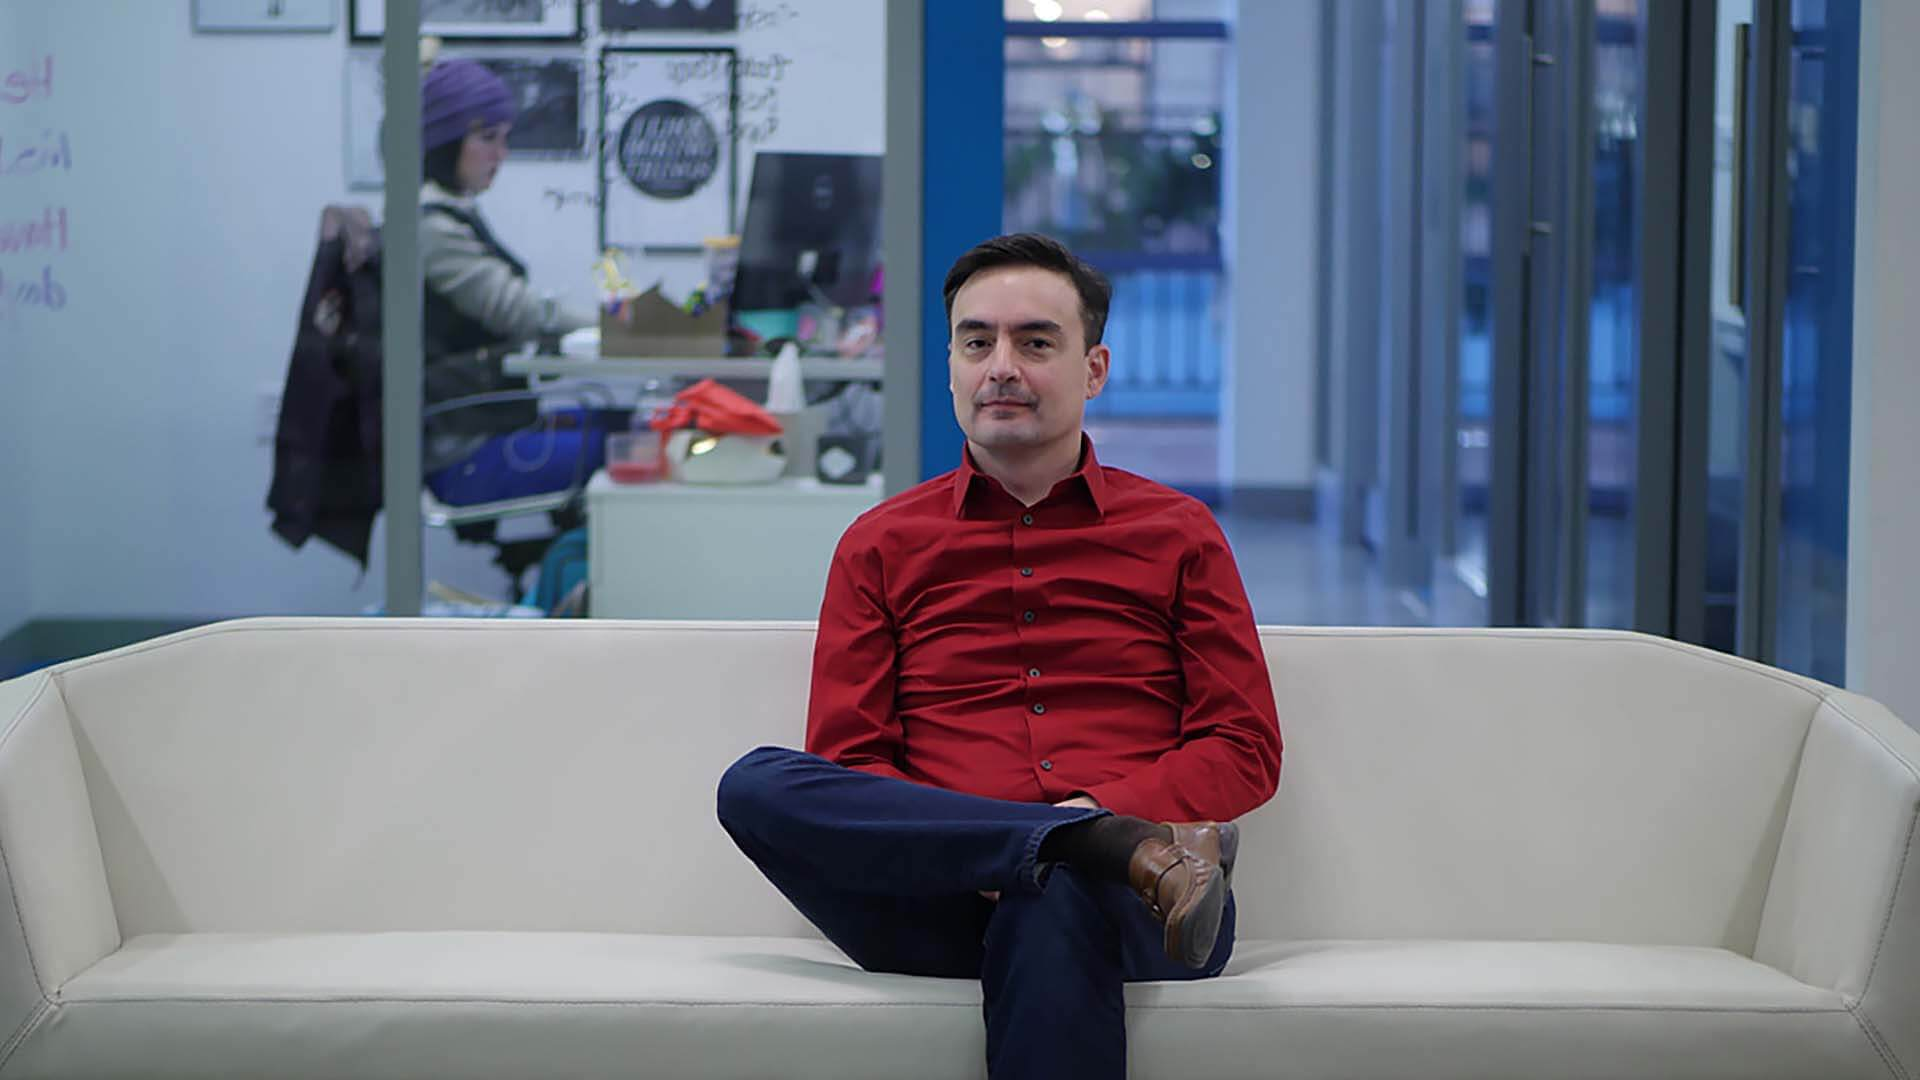
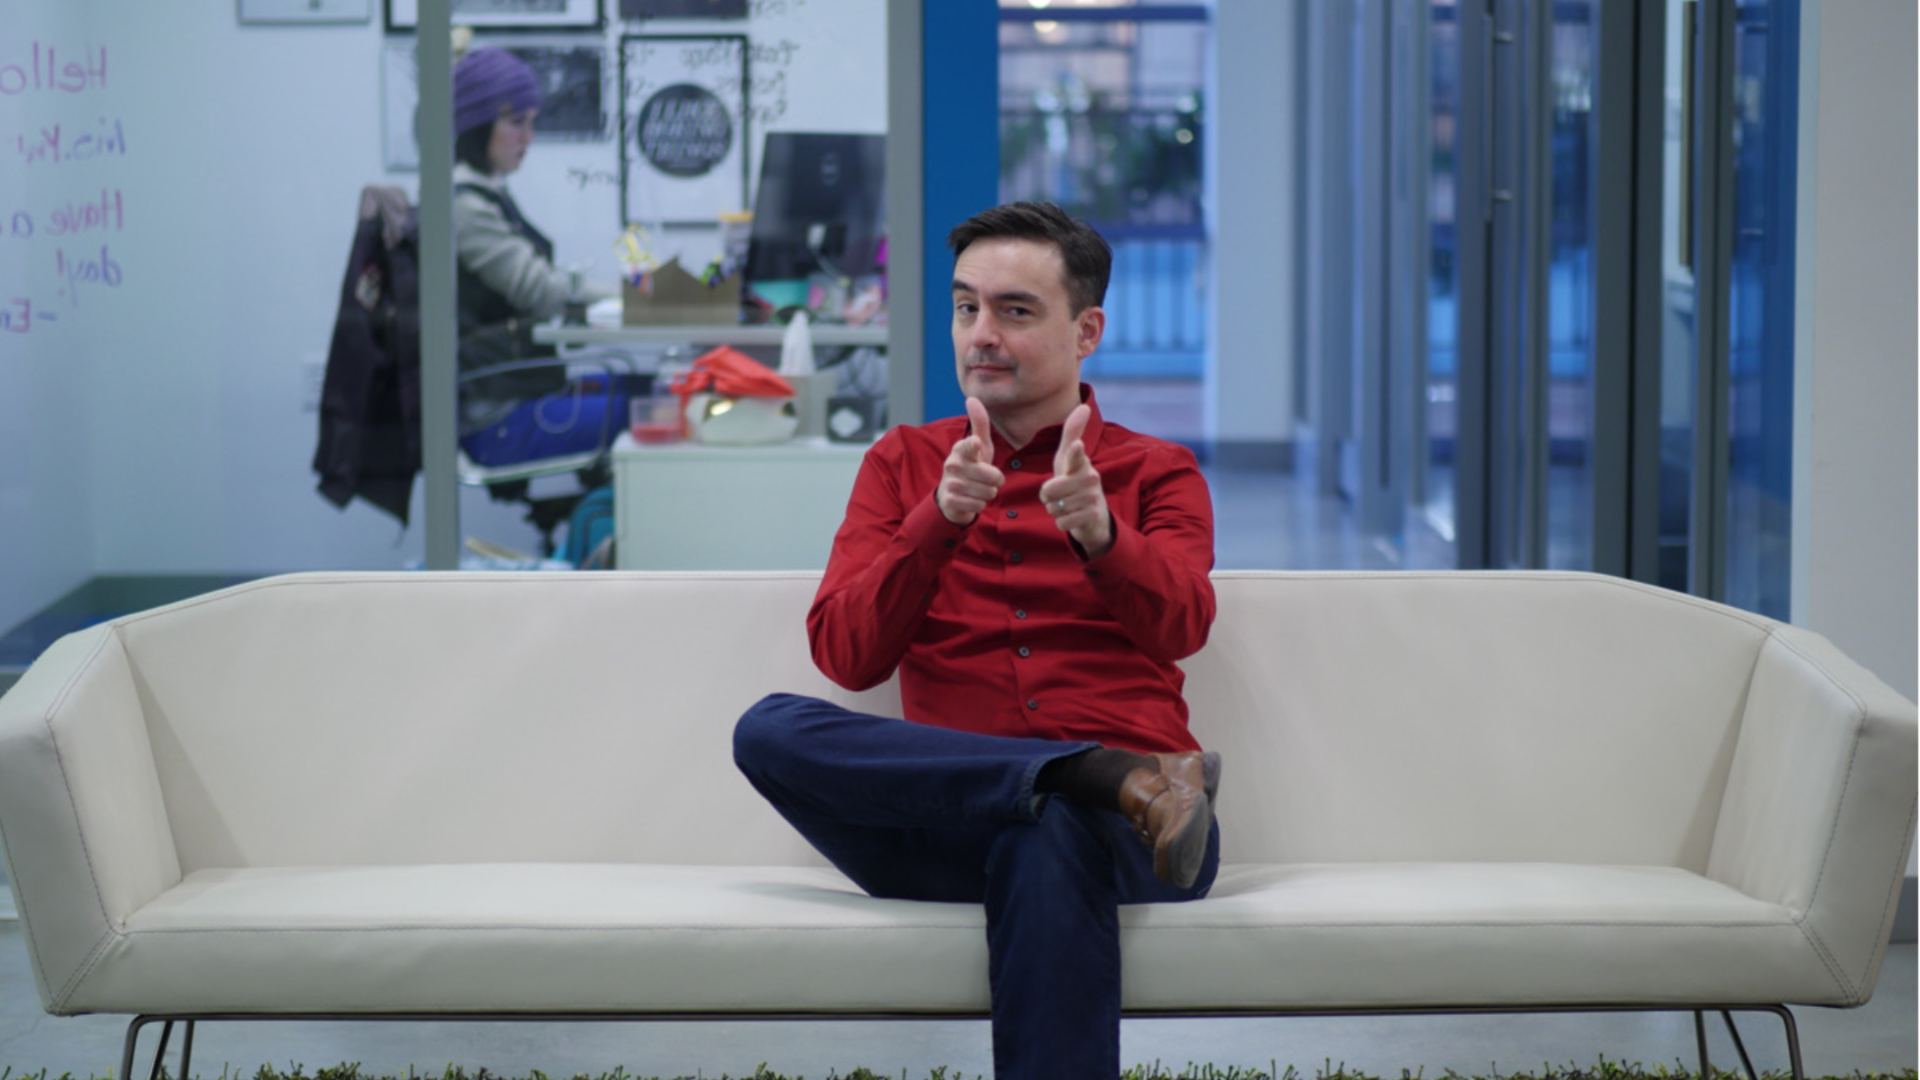
ongoing

diff --git a/src/sass/_custom.scss b/src/sass/_custom.scss
@@ -147,9 +147,9 @@ h2 {
   }
 }
 .sitemap-hero {
-  background-image: url('../images/photos/isral-couch.envoc.jpg');
+  background-image: url('../images/photos/isral-guide.jpg');
   @media screen and (min-width: 767px) {
-    background-image: url('../images/photos/isral-couch-envoc.jpg');
+    background-image: url('../images/photos/isral-guide.jpg');
   }
 }
 .btn {

diff --git a/src/sitemap/index.md b/src/sitemap/index.md
@@ -2,6 +2,6 @@
 title: 'Sitemap | '
 layout: sitemap
 projectLeadSentence: Sitemap for Isral Duke, Designer.
-projectImgSrc1: /images/photos/isral-couch-envoc.jpg
-socialImage: https://isralduke.com/images/photos/isral-couch-envoc.jpg
+projectImgSrc1: /images/photos/isral-guide.jpg
+socialImage: https://isralduke.com/images/photos/isral-guide.jpg
 ---
